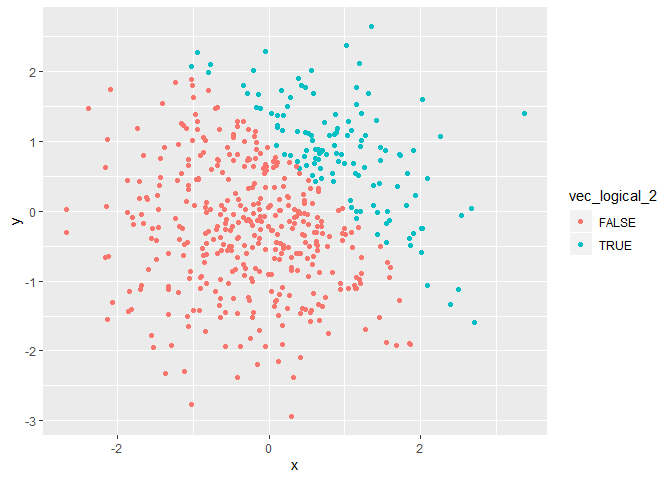
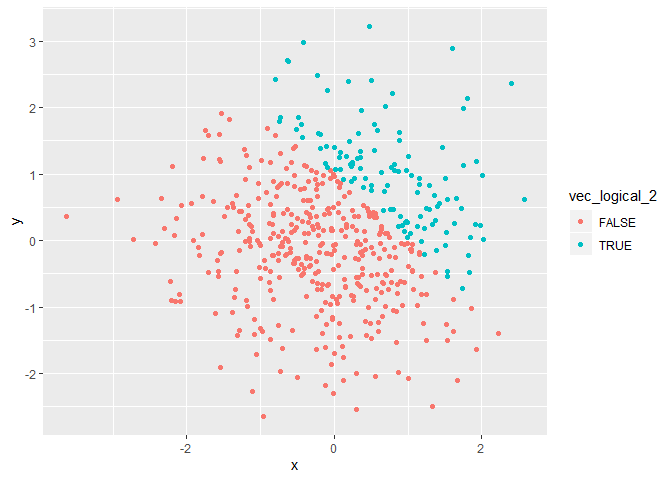
All files committed 9/19/2019 at noon.

diff --git a/p8105_hw1_mss2284.md b/p8105_hw1_mss2284.md
@@ -31,13 +31,13 @@ problem1_df = tibble(
 mean(pull(problem1_df, norm_samp))
 ```
 
-    ## [1] -0.0901863
+    ## [1] -0.02695014
 
 ``` r
 mean(pull(problem1_df, vec_logical))
 ```
 
-    ## [1] 0.375
+    ## [1] 0.625
 
 ``` r
 mean(pull(problem1_df, vec_char))
@@ -60,10 +60,13 @@ mean(pull(problem1_df, vec_factor))
 The means were able to be calculated for norm\_samp and vec\_logical,
 but not for vec\_char and vec\_factor.
 
-Converting the variables to
-numeric:
+Converting the variables to numeric:
 
 ``` r
+as.numeric(pull(problem1_df, vec_logical))
+as.numeric(pull(problem1_df, vec_char))
+as.numeric(pull(problem1_df, vec_factor))
+
 as.numeric(pull(problem1_df, vec_logical))*(pull(problem1_df, norm_samp))
 
 as.factor(pull(problem1_df, vec_logical))*(pull(problem1_df, norm_samp))
@@ -90,11 +93,11 @@ problem2_df = tibble(
 
 The dataset has a number of rows500, and number of columns 5.
 
-The mean of the variable x is 0.0169495. The median of the variable x is
-0.0343334. The standard deviation of the variable x is 0.9962312.
+The mean of the variable x is -0.0337073. The median of the variable x
+is -0.0199754. The standard deviation of the variable x is 0.9733176.
 
 The proportion of cases for which x + y is greater than one is
-0.244.
+0.234.
 
 Scatterplot
 
@@ -129,7 +132,7 @@ ggsave
     ##     grid.draw(plot)
     ##     invisible()
     ## }
-    ## <bytecode: 0x0000000011f9efb0>
+    ## <bytecode: 0x000000001251da10>
     ## <environment: namespace:ggplot2>
 
 ``` r
@@ -145,7 +148,7 @@ ggplot(problem2_df, aes(x = x, y = y, color = as.factor(problem2_df$vec_logical_
 ![](p8105_hw1_mss2284_files/figure-gfm/scatter-3.png)<!-- -->
 
 For the scatterplot with the as.numeric variable, the color scale is
-continuous from light to dark blue to reflect the continuous variable.
-For the plot using the logical variable and factor variable, there were
-two colors, to represent the binary (logical) variable, blue for true
-and orange for false.
+represented as a gradient from light to dark blue to reflect the
+continuous variable. For the plot using the logical variable and factor
+variable, there were two colors, to represent the binary (logical)
+variable, blue for true and orange for false.
